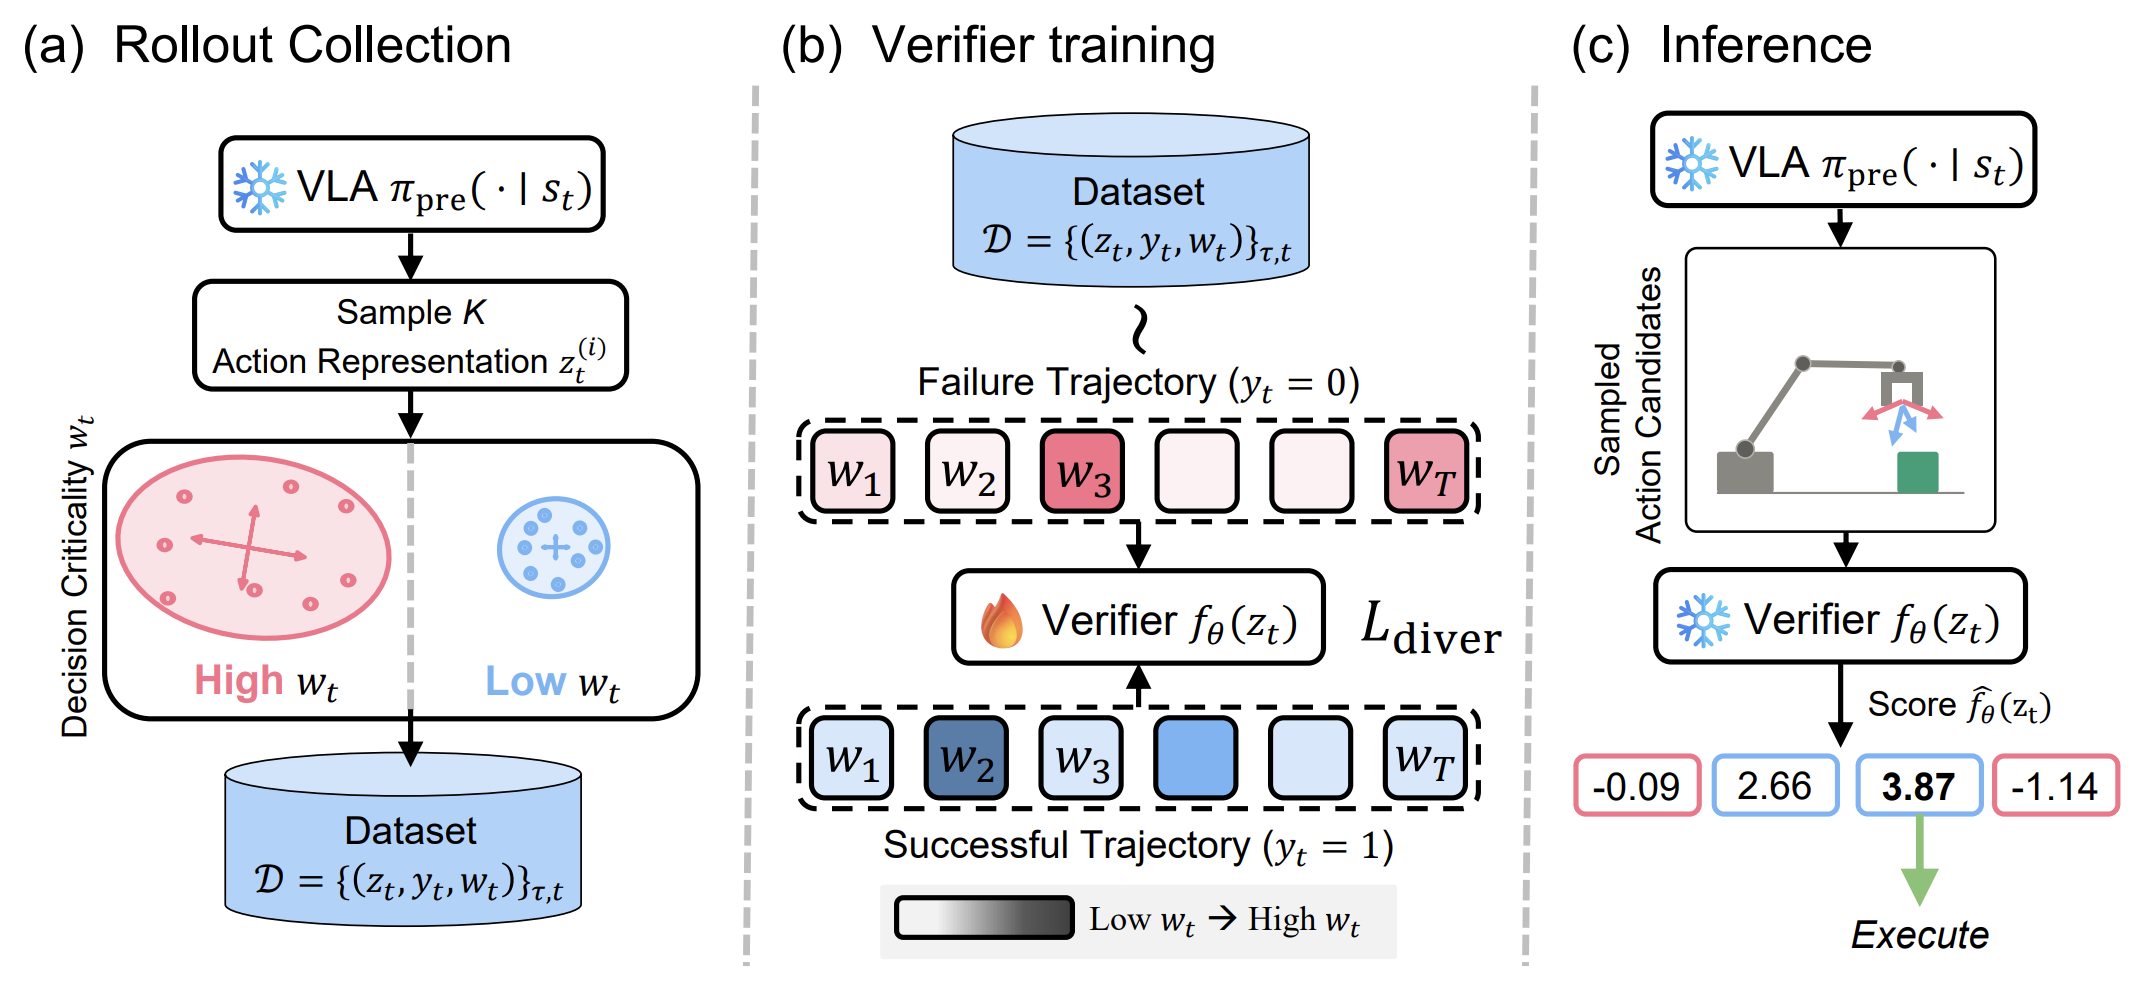
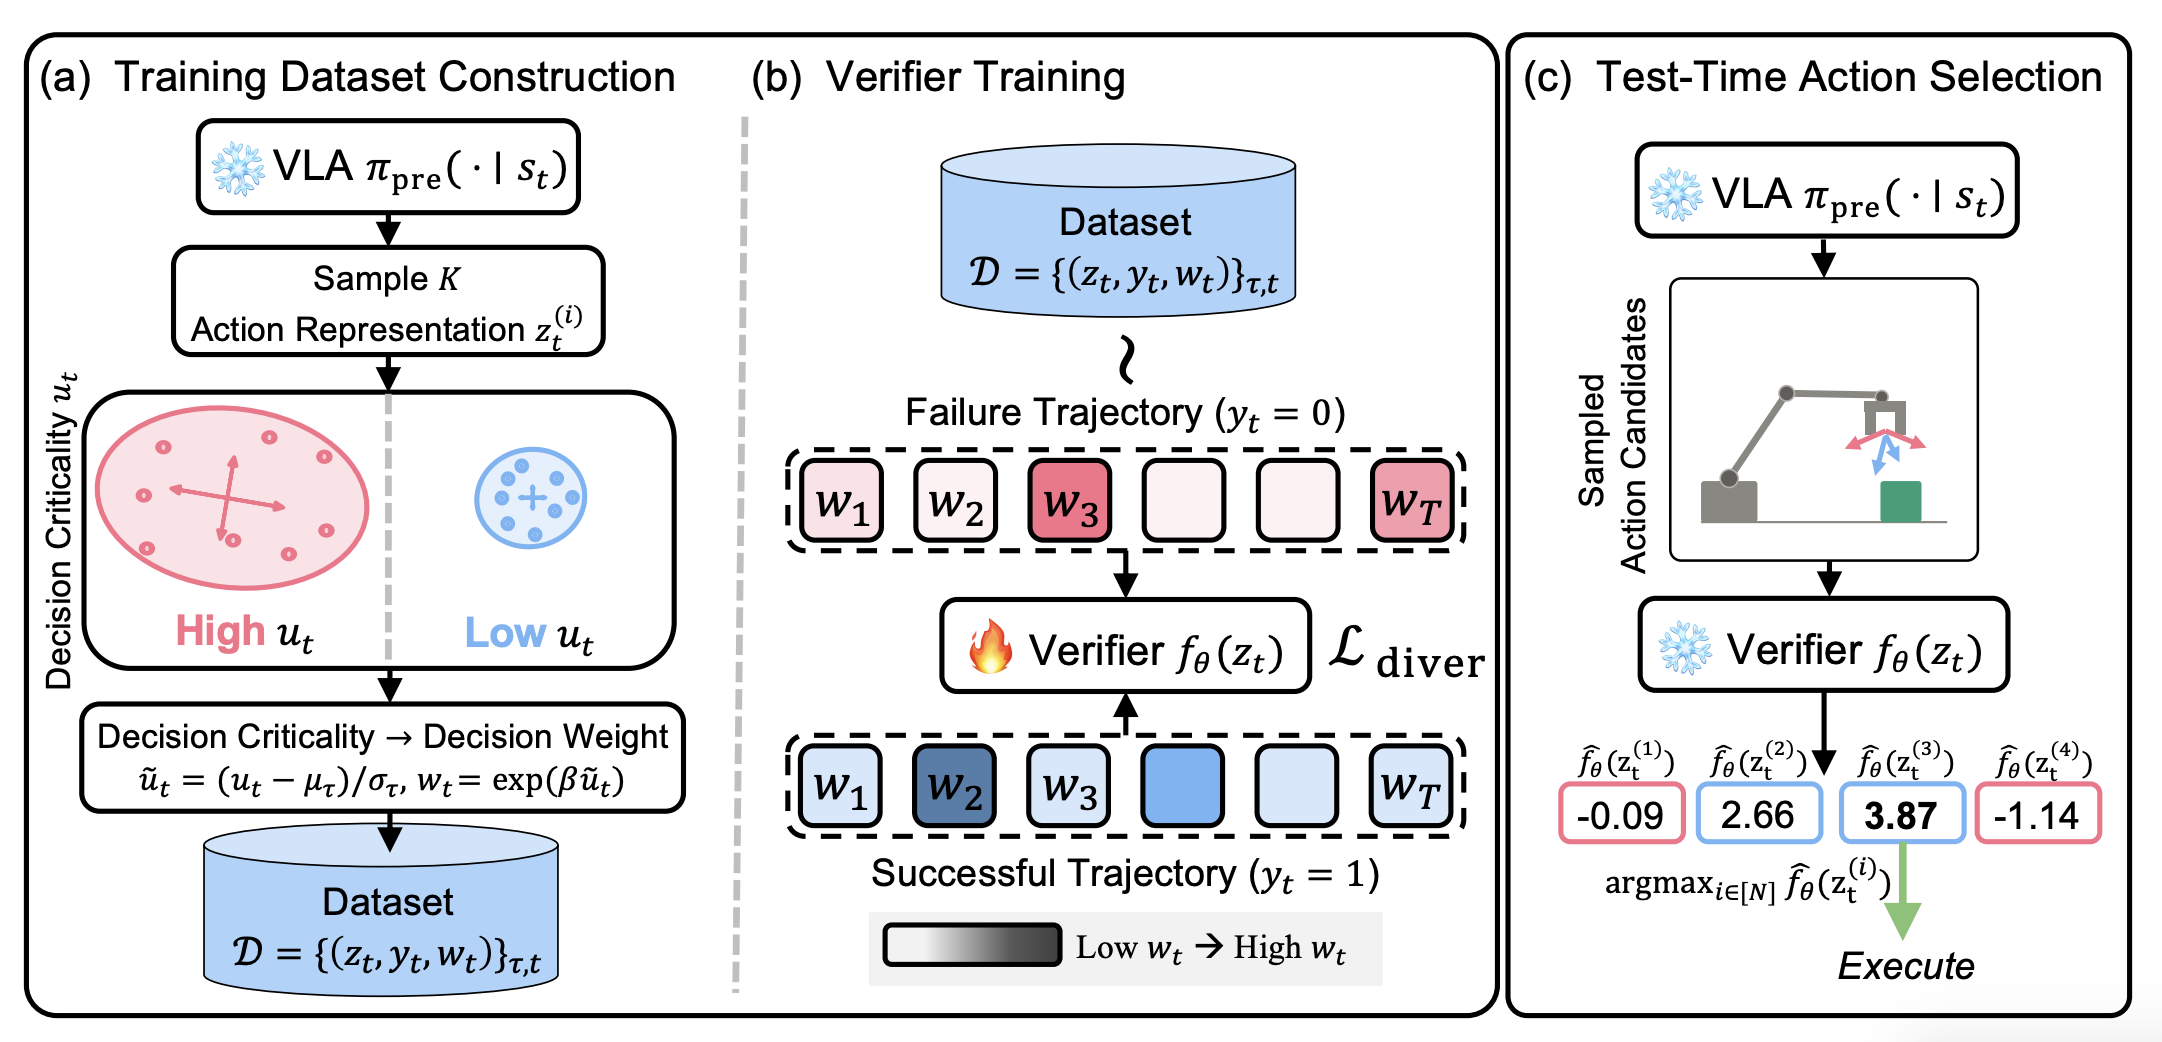
,,,

Changed region(s): [[0.0, 0.0309, 0.9981, 0.99]]

diff --git a/index.html b/index.html
@@ -119,13 +119,13 @@
           <h2 class="title is-3">Abstract</h2>
           <div class="content has-text-justified">
             <p>
-              Scaling robot data and model capacity has improved Vision-Language-Action (VLA) policies, but further progress is constrained by the high cost of robotic data.
-              Verifier-guided test-time scaling offers an efficient alternative by sampling multiple action candidates and selecting the one most likely to lead to task success at inference time.
-              Existing classification-based verifiers learn from trajectory-level outcomes but treat all visited states equally.
-              However, many states provide limited discrimination signal because plausible actions are similar, while a sparse set of decision-critical states admit meaningfully different actions that can substantially affect downstream outcomes.
-              We therefore propose DiVeR, a decision-criticality-weighted verifier that estimates state importance from the dispersion of sampled action representations.
-              Using this signal,  DiVeR places greater emphasis on decision-critical states during training, focusing verifier learning where action selection matters most.
-              Across LIBERO, RoboCasa, and real-world experiments on a Franka Research 3 robot,  DiVeR consistently improves verifier-guided action selection with negligible inference overhead.
+             Scaling robot data and model capacity has improved Vision-Language-Action (VLA) policies, but further progress is constrained by the high cost of robotic data.
+Verifier-guided test-time scaling offers an efficient alternative by sampling multiple action candidates and selecting the one most likely to lead to task success at inference time.
+Existing classification-based verifiers learn from trajectory-level outcomes but treat all visited states equally, even though their value for candidate discrimination can vary across a trajectory.
+At many states, plausible actions are similar and provide limited discrimination signal, while only a sparse set of decision-critical states admits meaningfully different actions that can substantially affect downstream outcomes.
+To address this, we propose DiVeR, which estimates decision criticality from the dispersion of sampled action representations.
+DiVeR then uses this signal to reweight verifier learning toward states where action selection is most consequential, without requiring step-level annotations or additional environment interaction.
+Across LIBERO, RoboCasa, and real-world experiments on a Franka Research 3 robot, DiVeR consistently improves task success through more effective verifier-guided action selection, while adding negligible verifier inference overhead.
             </p>
           </div>
         </div>
@@ -170,7 +170,7 @@
                   </li>
                   <li>
                     <strong>Focus verifier learning on critical states.</strong>
-                    DiVeR places greater training emphasis on sparse states where candidate actions DiVeRge and selection is more consequential.
+                    DiVeR places greater training emphasis on sparse states where candidate actions diverge and selection is more consequential.
                   </li>
                   <li>
                     <strong>Improve test-time action selection efficiently.</strong>
@@ -216,15 +216,7 @@
             <!-- <p>
               [Result 1 description.]
             </p> -->
-            <img src="./static/images/main1.png" />
-          </div>
-
-          <div class="content has-text-justified">
-            <!-- <h3 class="is-3">[Result 2 heading]</h3>
-            <p>
-              [Result 2 description.]
-            </p> -->
-            <img src="./static/images/main2.png" />
+            <img src="./static/images/main12.png" />
           </div>
           <div class="content has-text-justified">
             <!-- <h3 class="is-3">[Result 2 heading]</h3>
@@ -289,6 +281,55 @@
       </div>
 
     </div> -->
+
+      <section class="hero is-light is-small">
+    <div class="hero-body has-text-centered">
+      <h1 class="title"">
+         Qualitative Results
+      </h1>
+    </div>
+  </section>
+
+  <section class="section">
+    <div class="container is-max-desktop">
+      <div class="columns is-centered">
+        <div class="column is-full-width">
+          <div class="content has-text-justified">
+            <p>
+              We evaluate <strong>DiVeR</strong> on two simulated manipulation environments,
+              <strong>LIBERO-Long</strong> and <strong>RoboCasa</strong>, as well as a
+              real-world <strong>Franka Research 3</strong> robot, using both
+              <strong>π<sub>0</sub></strong> and <strong>π<sub>0.5</sub></strong>.
+              Across these settings, DiVeR consistently improves verifier-guided
+              Best-of-N action selection over competitive baselines. We further study
+              candidate scaling, component ablations, unseen-task generalization,
+              qualitative action selection, and inference latency, showing that the
+              gains remain robust while verifier overhead is negligible.
+            </p>
+          </div>
+
+          <div class="content has-text-justified">
+            <!-- <h3 class="is-3">LIBERO-10 with OpenVLA and &pi;<sub>0</sub></h3></h3> -->
+            <!-- <p>
+              [Result 1 description.]
+            </p> -->
+            <img src="./static/images/main12.png" />
+          </div>
+
+<!-- 
+          <div class="content has-text-justified">
+            <h3 class="is-3">Detection Accuracy&ndash;Timeliness Trade-off</h3>
+            <p>
+              A reliable failure detector must balance two competing demands: detecting failures accurately and detecting them promptly. On unseen LIBERO-10 tasks, Hide-and-Seek achieves the best accuracy&ndash;timeliness trade-off across both OpenVLA and &pi;<sub>0</sub>, with curves closest to the top-left corner. Notably, our method raises alarms near the GPT-5.2 annotated failure onset (dashed lines), enabling timely intervention&mdash;such as pausing execution or requesting human assistance&mdash;before the policy becomes irrecoverably stuck or causes harm.
+            </p>
+            <img src="./static/images/exp3.png" alt="Accuracy-timeliness trade-off curves" />
+          </div> -->
+        </div>
+      </div>
+
+    </div>
+
+
 
     <section class="hero is-light is-small">
       <div class="hero-body has-text-centered">
